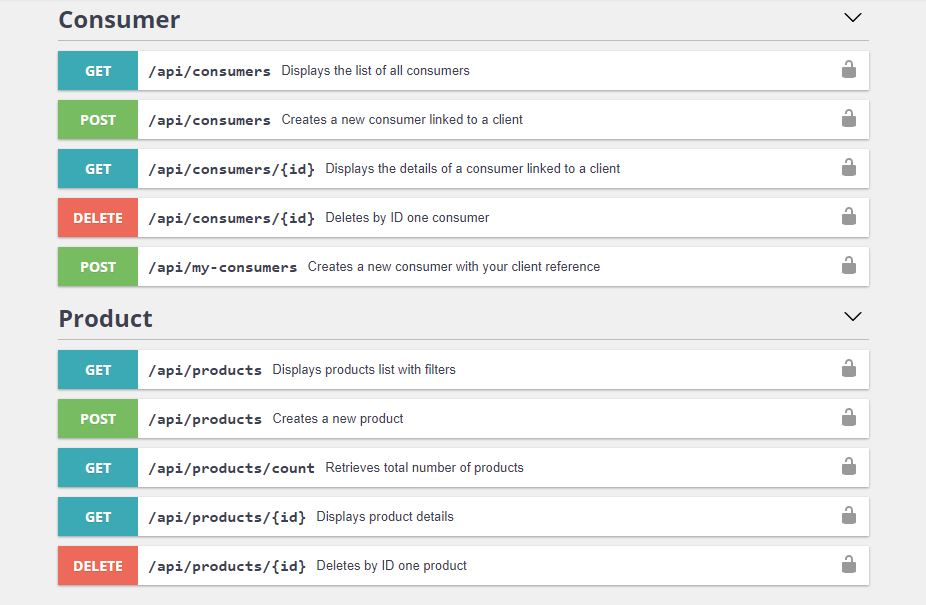
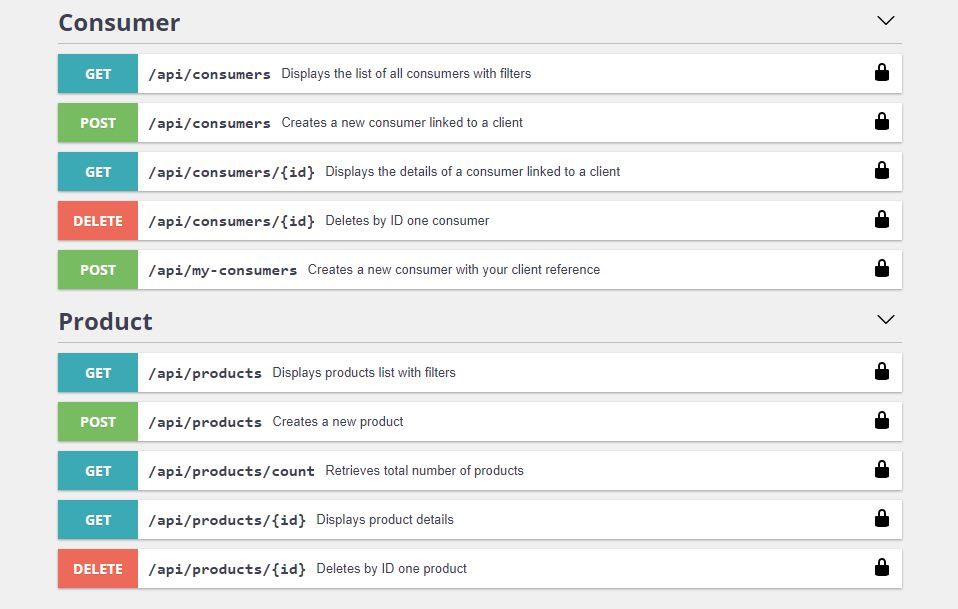
Update Diagrams & Entities

diff --git a/src/Entity/Consumer.php b/src/Entity/Consumer.php
@@ -48,7 +48,7 @@ use App\Controller\Operations\ConsumerAccount;
  *              "groups" = {"consumers:read"}
  *          },
  *          "openapi_context" = {
- *              "summary" = "Displays the list of all consumers",
+ *              "summary" = "Displays the list of all consumers with filters",
  *              "description" = "Collection restricted to administrators."
  *          }
  *      },
@@ -98,7 +98,8 @@ use App\Controller\Operations\ConsumerAccount;
  * @ApiFilter(
  *  SearchFilter::class, 
  *  properties = {
- *      "username":"partial"
+ *      "username":"partial",
+ *      "client.name":"partial"
  *  }
  * ),
  * @ORM\Entity(repositoryClass="App\Repository\ConsumerRepository")

diff --git a/src/Entity/Client.php b/src/Entity/Client.php
@@ -95,7 +95,7 @@ class Client
      *  maxMessage="Client name : maximum 60 characters"
      * )
      * 
-     * @Groups({"clients:read", "consumer_details:read", "clients:write"})
+     * @Groups({"clients:read", "consumers:read", "clients:write"})
      */
     private $name;
 
